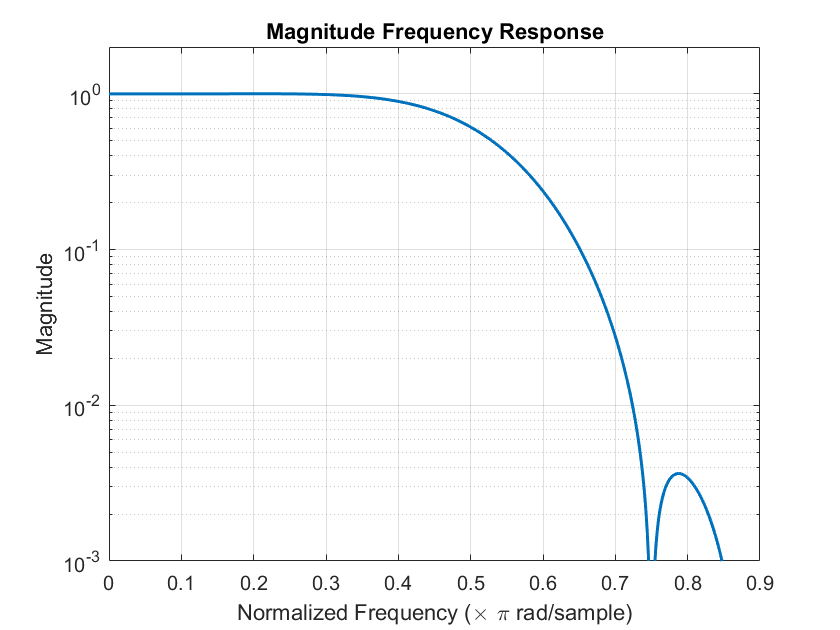
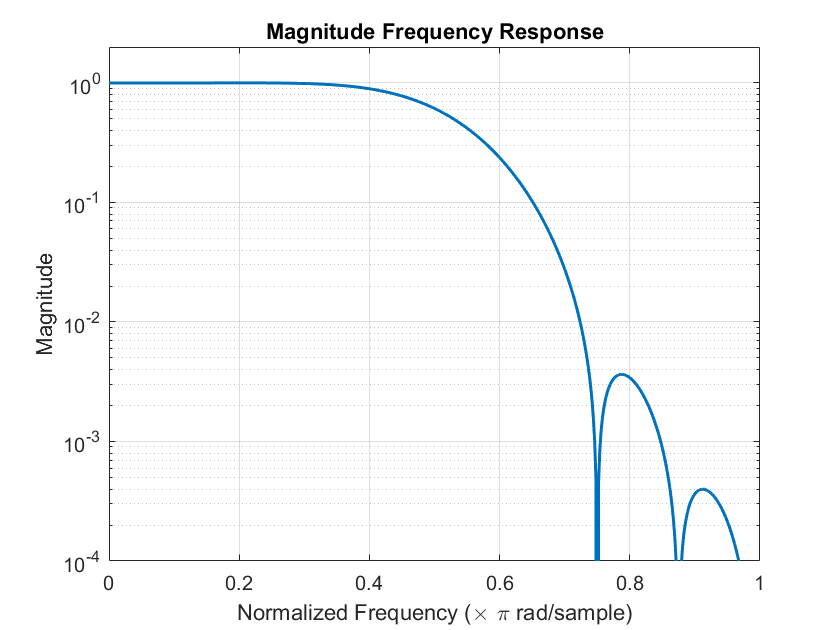
Cleaning up homework

diff --git a/6/Homework6_Sowatzke.m b/6/Homework6_Sowatzke.m
@@ -120,8 +120,7 @@ ylabel('Magnitude');
 title('Comparison of Hc(e^{j\omega}) to H(k)')
 legend('Hc(e^{j\omega})','H(k)');
 
-%% Problem 1d)
-
+%% Problem 1e)
 % Compute the frequency response of the casual filter
 [Hc,w] = freqz(hc,1,512);
 
@@ -141,8 +140,7 @@ title('Magnitude Frequency Response')
 % Turn on grid
 grid on;
 
-%% Problem 1e)
-
+%% Problem 1f)
 % Multiply the impulse response by a Hamming window
 hc = hc.*hamming(length(hc));
 
@@ -151,30 +149,6 @@ hc = hc.*hamming(length(hc));
 
 % Plot the frequency response
 figure(7)
-clf;
-semilogy(w/pi,abs(Hc),'LineWidth',1.5);
-
-% Set limits for Y axis
-ylim([0.001 2]);
-
-% Label plot
-xlabel('Normalized Frequency (\times \pi rad/sample)')
-ylabel('Magnitude');
-title('Magnitude Frequency Response')
-
-% Turn on grid
-grid on;
-
-%% Problem 1f)
-
-% Apply hamming window to impulse response
-hc = hc.*hamming(length(hc));
-
-% Compute the updated frequency response
-[Hc,w] = freqz(hc,1,512);
-
-% Plot the frequency response
-figure(8)
 clf;
 semilogy(w/pi,abs(Hc),'LineWidth',1.5);
 
@@ -190,7 +164,6 @@ title('Magnitude Frequency Response')
 grid on;
 
 %% Problem 1g)
-
 % Design 17 tap filter with fir2 command
 %
 % Note that the FIR2 function will force the size of the DFT to be a
@@ -204,7 +177,7 @@ h = fir2(16,0:0.125:1,[1 1 1 1 sqrt(2)/2 0 0 0 0],16,0);
 
 % Overlay the impulse response of the causal, symmetric filter and the
 % result of the fir2 command
-figure(9);
+figure(8);
 clf;
 n = 0:(length(h)-1);
 stem(n,hc,'LineWidth',1.5);
@@ -217,7 +190,7 @@ ylabel('Value');
 title('Impulse Response Comparison')
 
 % Plot the frequency response of both filters for comparison
-figure(10);
+figure(9);
 clf;
 [Hc,~] = freqz(hc,1,512);
 [H,w] = freqz(h,1,512);
@@ -232,12 +205,11 @@ title('Magnitude Frequency Response Comparison')
 legend('Hc(e^{j\omega})','Hm(e^{j\omega})')
 
 %% Problem 2
-
 % Design FIR filter with the firpm function
 h = firpm(16,[0 0.37 0.71 1],[1 1 0 0]);
 
 % Plot the frequency response of the resulting filter
-figure(11);
+figure(10);
 clf;
 [H,w] = freqz(h,1,512);
 semilogy(w/pi,abs(H),'LineWidth',1.5);
@@ -245,5 +217,3 @@ grid on;
 xlabel('Normalized Frequency (/times /pi rad/sample)')
 ylabel('Magnitude');
 title('Magntiude Frequency Response');
-
-

diff --git a/6/Homework6_Sowatzke.tex b/6/Homework6_Sowatzke.tex
@@ -49,7 +49,7 @@
 		\begin{equationCenter}
 			H(e^{j\omega}) = \begin{cases}
 				1 & \text{for}\ |\omega| < \omega_c\\
-				0 & \text{for}\ 0 \leq |\omega| \leq \pi
+				0 & \text{for}\ \omega_c \leq |\omega| \leq \pi
 			\end{cases}
 		\end{equationCenter}
 		
@@ -92,7 +92,7 @@
 			
 			Note that the frequency response matches the ideal frequency response exactly at each of the frequencies samples we specified when defining $H(k)$.
 			
-			\item Rearrange the elements of \texttt{h} to obtain a causal, symmetric impulse response, \texttt{hc}. Plot the result. For example, in MATLAB do \texttt{stem(hc)}. What is the final length of this filter?
+			\item Rearrange the elements of \texttt{h} to obtain a causal, symmetric (i.e., symmetric around the midpoint of the array) impulse response, \texttt{hc}. You'll need to copy the sample at one endpoint of the array to form the sample at the other endpoint of the array. Plot the result. For example, in MATLAB do \texttt{stem(hc)}. What is the final length of this filter?
 			
 			The output of the inverse DFT, \texttt{h}, is one period of the Discrete Fourier Series. The causal, symmetric impulse response will be the Discrete Fourier Series from $n=-\frac{N}{2}$ to $n=\frac{N}{2}$ with the samples at $n=-\frac{N}{2}$ and $n=\frac{N}{2}$ halved. Note that halving the endpoints is necessary if we want to prevent magnitude distortion of \texttt{H(k)}.
 			 
